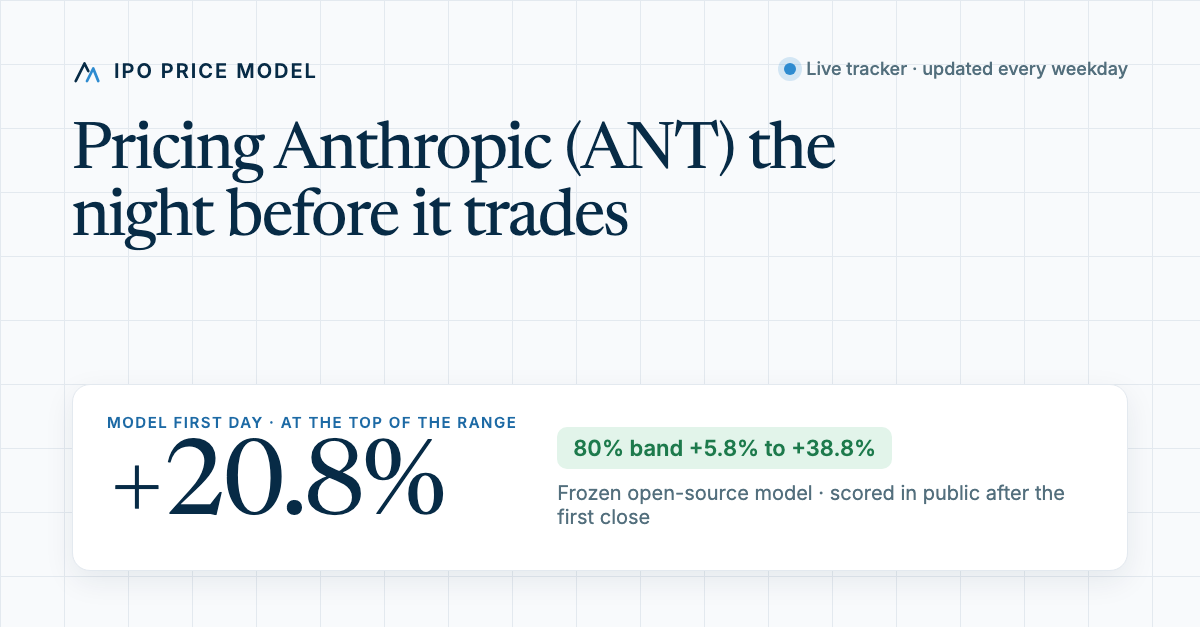
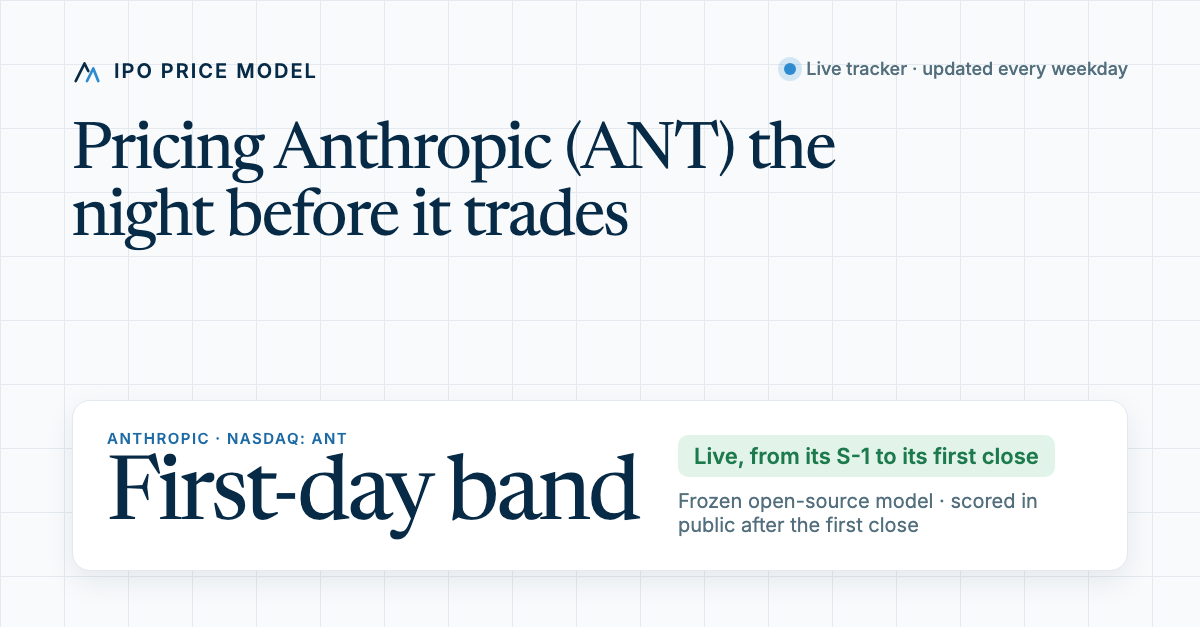
demo: market-window sensitivity, hero labels the scenario and its record, number-free share card, size basis stated once

Changed region(s): [[0.0925, 0.6667, 0.8942, 0.8788]]

diff --git a/docs/index.html b/docs/index.html
@@ -12,7 +12,7 @@
 <meta property="og:image" content="https://henryzhangpku.github.io/ipo-price-model/og.png">
 <meta property="og:image:width" content="1200">
 <meta property="og:image:height" content="627">
-<meta property="og:image:alt" content="Pricing Anthropic (ANT) the night before it trades: model first day +20.8% at the top of the range, 80% band +5.8% to +38.8%">
+<meta property="og:image:alt" content="Pricing Anthropic (ANT) the night before it trades: a frozen open-source model's first-day band for ANT, tracked live from its S-1 to its first close">
 <meta property="og:site_name" content="IPO Price Model">
 <meta name="twitter:card" content="summary_large_image">
 <meta name="twitter:image" content="https://henryzhangpku.github.io/ipo-price-model/og.png">
@@ -239,7 +239,7 @@ body.nomodel .pending{display:block;padding:22px}
       <div class="stats">
         <div><div class="k">Gate at top of range</div><div class="v" id="stGate"></div></div>
         <div><div class="k">IPO market, last 90 days</div><div class="v" id="stRegime"></div></div>
-        <div><div class="k">Largest IPO it trained on</div><div class="v" id="stMax"></div></div>
+        <div><div class="k">Largest ranged IPO in its data</div><div class="v" id="stMax"></div></div>
         <div><div class="k">Browser vs Python</div><div class="v" id="stCheck"></div></div>
       </div>
     </div>
@@ -275,7 +275,9 @@ body.nomodel .pending{display:block;padding:22px}
     <h2 class="sh">What moves the number, and what doesn't</h2>
     <p class="sd" id="sensLead"></p>
     <div class="card tablewrap">
-      <table id="sens"><thead><tr><th>If the filed range is</th><th>Median at the top</th><th>80% band</th><th>Gate</th></tr></thead><tbody></tbody></table>
+      <table id="sens"><thead><tr><th>Priced at the top of a range of</th><th>First-day median</th><th>80% band</th><th>Gate</th></tr></thead><tbody></tbody></table>
+      <table id="sensReg" style="margin-top:16px"><thead><tr><th>If recent IPOs' median first day were</th><th>First-day median</th><th>80% band</th><th>Gate</th></tr></thead><tbody></tbody></table>
+      <p class="tnote" id="sensRegNote"></p>
       <p class="tnote" id="sensDeal"></p>
       <p class="tnote" id="sensCov"></p>
     </div>
@@ -471,9 +473,10 @@ body.nomodel .pending{display:block;padding:22px}
     $('heroPill').innerHTML = `80% band <small>${pct(ph.lo/TOP-1)} to ${pct(ph.hi/TOP-1)}</small>`;
     $('heroBand').textContent = filed
       ? `Median first close against the offer if ANT prices at the top of its filed $${base.low}–$${base.high} range, for a ${bn(dealAt(TOP))} raise. On pricing night the actual offer replaces the scenario.`
-      : `Median first close against the offer, for a ${bn(base.deal)} raise priced at the top of a placeholder $${base.low}–$${base.high} range. Today the S-1 has no range, so the gate withholds; this is the number it gives the moment one is filed.`;
+      : `A scenario, not the call: the median first close for a ${bn(base.deal)} raise priced at the top of a placeholder $${base.low}–$${base.high} range. The S-1 has no range yet, so the gate withholds the real call until one is filed.`;
   }
   if (!result) $('heroBand').textContent += ' The 80% is nominal: in the backtest, published bands caught 68%.';
+  if (LR) $('heroBand').textContent += ` As of record #${LR.seq}, ${LR.as_of}.`;
   if (LR){
     const reg = LR.filing.registration || {};
     const bits = [`${reg.form || 'S-1'} filed ${reg.date || '26 Oct 2026'}`];
@@ -523,15 +526,24 @@ body.nomodel .pending{display:block;padding:22px}
       const tag = lo === base.low ? (filed ? ' (filed)' : ' (placeholder)') : (lo > base.low ? ' (narrower)' : ' (wider)');
       tb.insertAdjacentHTML('beforeend', `<tr${lo === base.low ? ' class="hl"' : ''}><td>$${lo}–$${TOP}${tag}</td><td>${pct(p.point/TOP-1)}</td><td>${pct(p.lo/TOP-1)} to ${pct(p.hi/TOP-1)}</td><td>${pill(p)}</td></tr>`);
     });
-    $('sensLead').textContent = filed
-      ? 'The range on EDGAR is an input, not just a reference point: the same top-of-range offer gives a different answer for a narrower or wider range. The filed range is highlighted.'
-      : `The headline uses a placeholder $${base.low}–$${base.high} range, and its width matters: the same $${TOP} offer at the top of a narrower or wider range gives a different answer. The filed range replaces the placeholder the day it appears on EDGAR.`;
+    $('sensLead').textContent = (filed
+      ? 'The model is frozen, but two public inputs still move its answer. The filed range is one: the same top-of-range offer gives a different answer for a narrower or wider range. '
+      : `The model is frozen, but two public inputs still move its answer. One is the range: the headline uses a placeholder $${base.low}–$${base.high}, and the same $${TOP} offer at the top of a narrower or wider range gives a different answer. The filed range replaces the placeholder the day it appears on EDGAR. `)
+      + 'The other is the IPO market of the last 90 days, which the job refreshes every weekday.';
+    const R0 = M.regime, tr = document.querySelector('#sensReg tbody');
+    [-0.02, 0, 0.02].forEach(dm => {
+      M.regime = {...R0, regime_first_day_median: R0.regime_first_day_median + dm};
+      const p = price({...base, deal: dealAt(TOP), offer: TOP});
+      tr.insertAdjacentHTML('beforeend', `<tr${dm === 0 ? ' class="hl"' : ''}><td>${pct(M.regime.regime_first_day_median)}${dm === 0 ? ' (today)' : ''}</td><td>${pct(p.point/TOP-1)}</td><td>${pct(p.lo/TOP-1)} to ${pct(p.hi/TOP-1)}</td><td>${pill(p)}</td></tr>`);
+    });
+    M.regime = R0;
+    $('sensRegNote').textContent = `Today's market read rests on ${R0.regime_n} listings, so one new deal can shift it, and the trees respond to it in steps, not smoothly: a weaker market does not always mean a lower number. The daily record keeps every change, so you can see each one in the tracker table above.`;
     const sizes = [5e9, 20e9, 60e9, 100e9].map(d => price({...base, deal: d, offer: TOP}));
     const same = sizes.every(p => Math.abs(p.point - sizes[0].point) < 1e-6 && Math.abs(p.lo - sizes[0].lo) < 1e-6 && Math.abs(p.hi - sizes[0].hi) < 1e-6);
     $('sensDeal').textContent = (same
       ? 'Deal size changes nothing up here: a $5B, $20B, $60B or $100B raise gives the identical answer. '
       : 'Deal size moves the answer only a little between $5B and $100B. ')
-      + `Tree models don't extrapolate past what they have seen. The largest IPO with a filed range in its data is ${M.train_max_ranged_symbol} at ${bn(M.train_max_ranged_deal)}; the largest listing of any kind is Coinbase's ${bn(M.train_max_deal)} direct listing, which had no range. ANT is beyond both.`;
+      + `Tree models don't extrapolate past what they have seen. The largest IPO with a filed range in its data is ${M.train_max_ranged_symbol} at ${bn(M.train_max_ranged_deal)}; the largest listing of any kind is Coinbase's ${bn(M.train_max_deal)} direct listing, which had no range. A ${bn(dealAt(TOP))} ANT raise is about ${Math.round(dealAt(TOP)/M.train_max_ranged_deal)}× the first and ${(dealAt(TOP)/M.train_max_deal).toFixed(1)}× the second.`;
     $('sensCov').textContent = 'The band is a nominal 80%. In the backtest, the bands the gate published caught 68% of first closes (see the track record), so read it as tighter than the evidence supports.';
   }
 

diff --git a/docs/og.html b/docs/og.html
@@ -30,11 +30,11 @@ h1{font:400 64px/1.05 Newsreader,Georgia,serif;letter-spacing:-.02em;margin:34px
   <h1>Pricing Anthropic (ANT) the night before it trades</h1>
   <div class="card">
     <div>
-      <div class="lab">Model first day · at the top of the range</div>
-      <div class="big">+20.8%</div>
+      <div class="lab">Anthropic · Nasdaq: ANT</div>
+      <div class="big" style="white-space:nowrap;font-size:88px">First-day band</div>
     </div>
     <div class="side">
-      <span class="pill">80% band +5.8% to +38.8%</span>
+      <span class="pill">Live, from its S-1 to its first close</span>
       <span class="note">Frozen open-source model · scored in public after the first close</span>
     </div>
   </div>

diff --git a/README.md b/README.md
@@ -197,10 +197,16 @@ biases the sample toward survivors, and the count dropped is reported. No
 underwriter identity, no sector, no S-1 text: each would be a new declared
 feature with its own preregistration.
 
-For ANT specifically: the largest IPO in the training data is Rivian at $12B,
-and a $60–100B raise is five to eight times that. Gradient-boosted trees do not
-extrapolate, so the band describes how the very largest past listings behaved,
-not a forecast for a deal the US market has never priced. Until the cover states
+For ANT specifically: the largest IPO with a filed range in the data is Rivian
+at $12B, and a $60–100B raise is five to eight times that (the largest listing
+of any kind is Coinbase's $29B direct listing, with no range: two to three and
+a half times). Gradient-boosted trees do not extrapolate, so above about $5B
+the deal size changes nothing, and the band describes how the very largest past
+listings behaved, not a forecast for a deal the US market has never priced.
+Two public inputs still move the frozen model's answer: the filed range (its
+width as well as where the offer lands) and the 90-day IPO market. The market
+read rests on a dozen or so listings, and the trees respond to it in steps, so
+one new listing can move the band; every such move is in the record. Until the cover states
 a share count, the deal size is a press estimate, labelled as one. The live
 regime adds listings from the Nasdaq calendar, while the frozen data came from
 Finnhub; both go through the same cohort rules.
